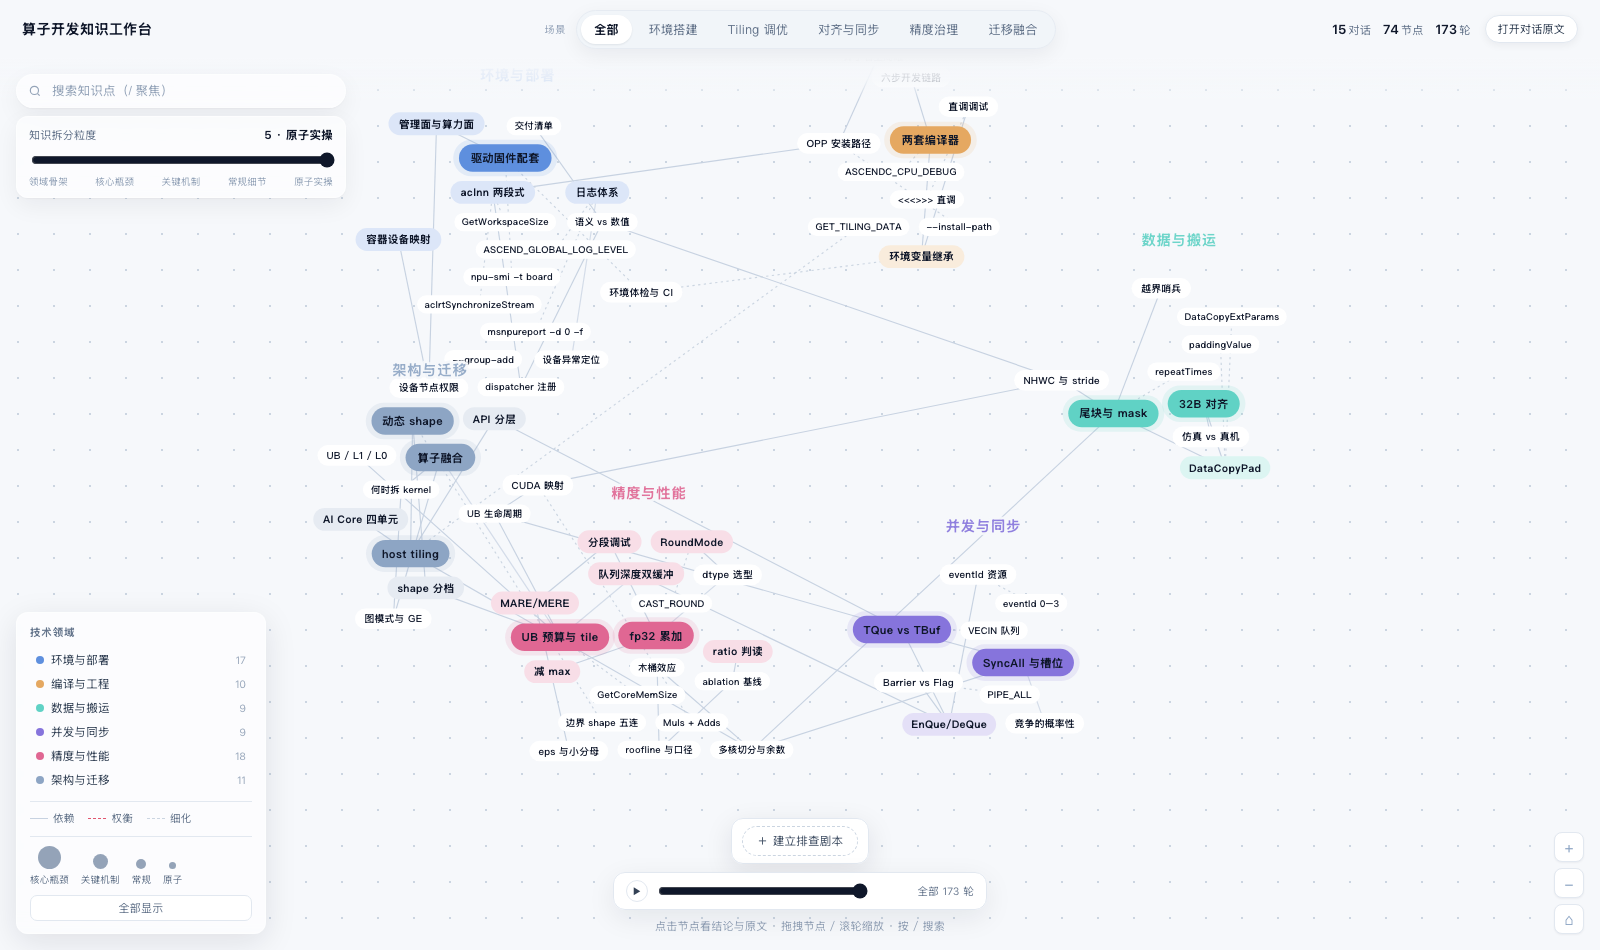
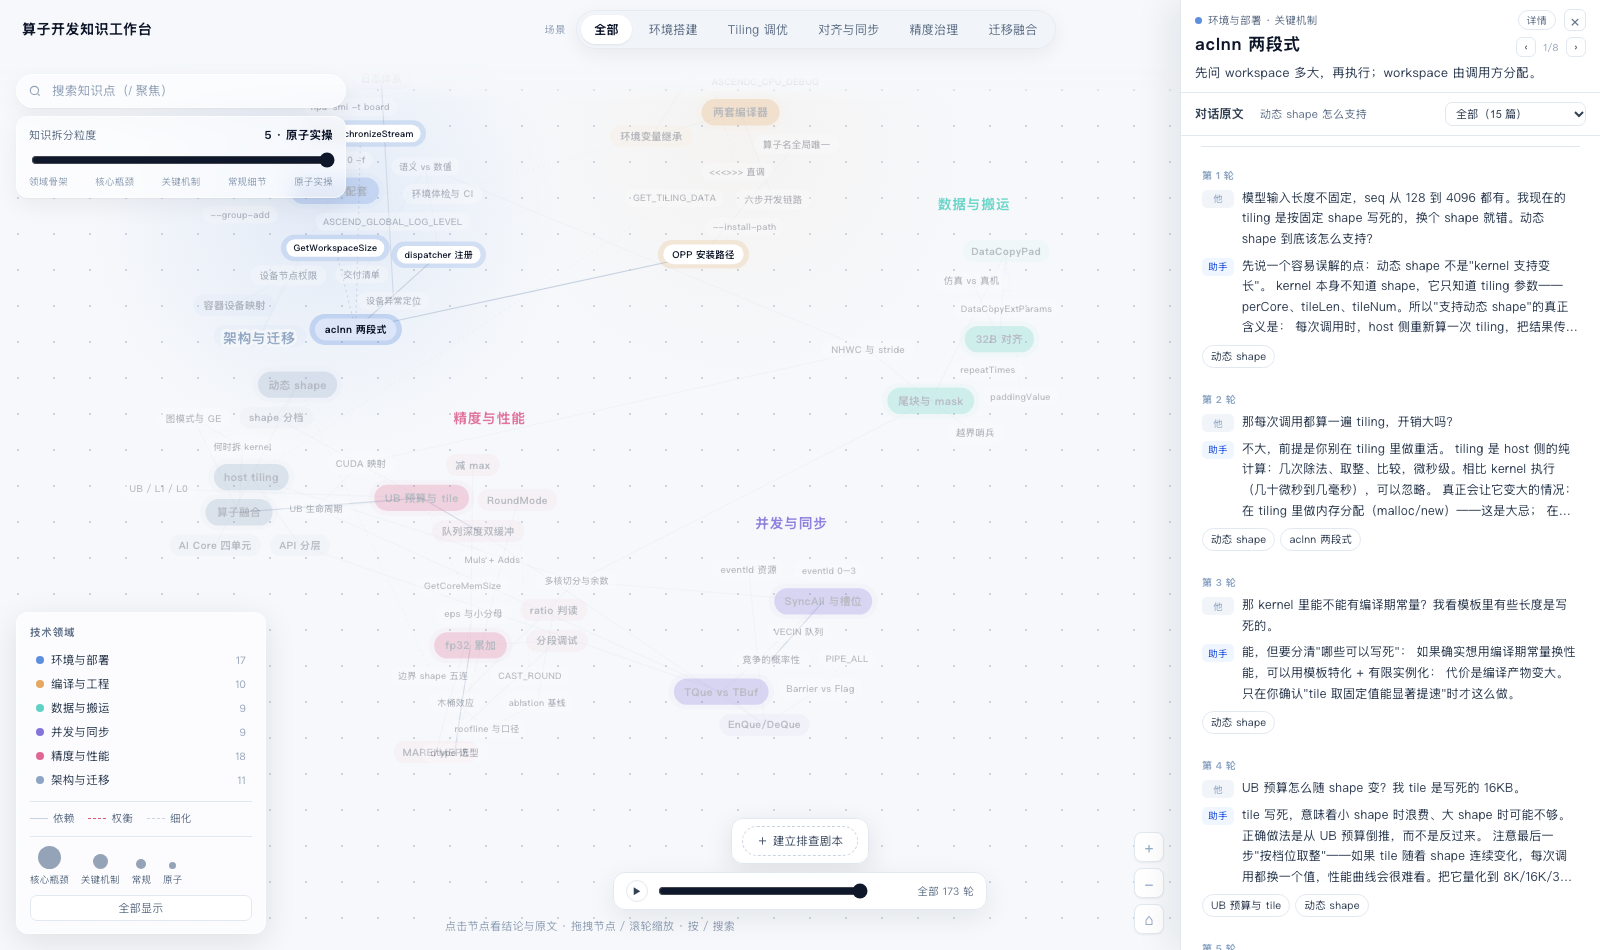
style(drawer): 抽屉与剧本面板改为全高，去掉顶部留白

diff --git a/cann-dashboard/算子知识工作台.html b/cann-dashboard/算子知识工作台.html
@@ -135,7 +135,7 @@
     paint-order:stroke;stroke:var(--bg);stroke-width:2.4px}
 
   /* ---------- drawer ---------- */
-  #drawer{position:fixed;top:58px;right:0;bottom:0;width:420px;max-width:94vw;background:var(--card);
+  #drawer{position:fixed;top:0;right:0;bottom:0;width:420px;max-width:94vw;background:var(--card);
     border-left:1px solid var(--line);display:none;flex-direction:column;z-index:40;
     box-shadow:-14px 0 32px rgba(15,23,42,.07)}
   #drawer.open{display:flex}
@@ -231,7 +231,7 @@
     box-shadow:0 2px 8px rgba(15,23,42,.06);display:none;align-items:center;white-space:nowrap}
   .fab.show{display:inline-flex}
   /* 剧本 */
-  #playbook{position:fixed;right:0;top:62px;bottom:0;width:420px;background:#fff;
+  #playbook{position:fixed;right:0;top:0;bottom:0;width:420px;background:#fff;
     border-left:1px solid var(--line);box-shadow:-8px 0 24px rgba(15,23,42,.06);
     display:flex;flex-direction:column;z-index:45}
   #playbook[hidden]{display:none}
